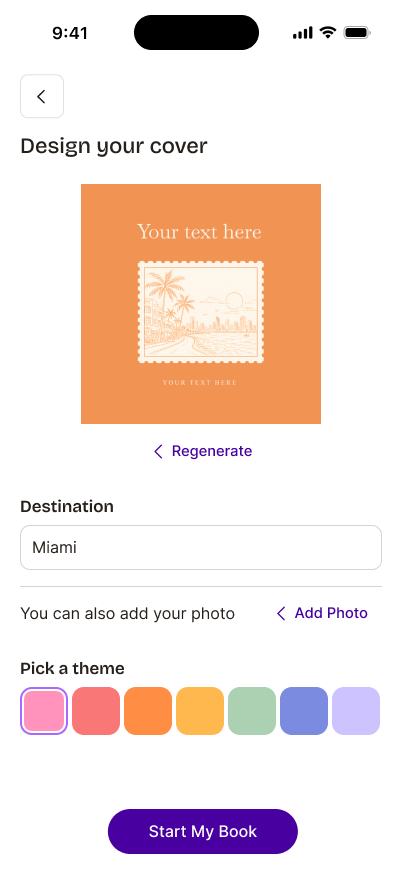
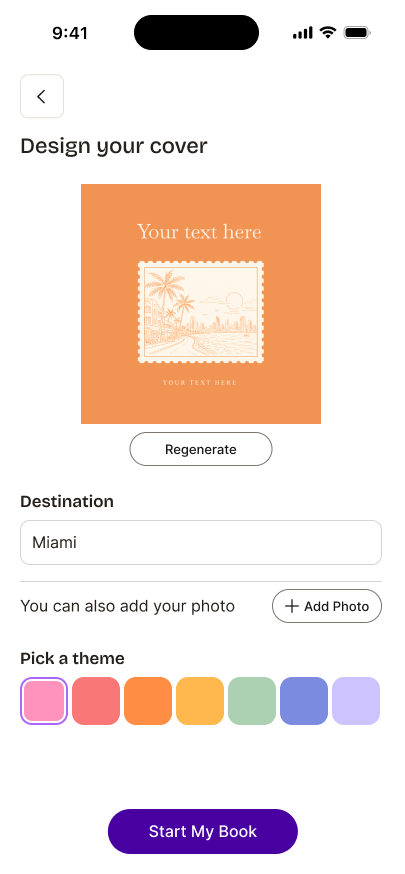
Before/after: use the bold-tertiary (Callout/Strong) screens as 'after'

diff --git a/buttons/index.html b/buttons/index.html
@@ -544,9 +544,9 @@ ul.pc li.con::before{content:"✕";color:var(--pink)}
       <h3>The same screens, with the new hierarchy.</h3>
       <div class="screens-row">
         <figure><img src="assets/orig-book-ready.png" alt="Your book is ready, before"><figcaption><strong>Before</strong>Soft fill Edit My Book, filled Share</figcaption></figure>
-        <figure><img src="assets/new-book-ready.png" alt="Your book is ready, after"><figcaption><strong>After</strong>Edit My Book and Share in grey outline, Regenerate as text</figcaption></figure>
+        <figure><img src="assets/new-book-ready.png?v=2" alt="Your book is ready, after"><figcaption><strong>After</strong>Edit My Book and Share in grey outline, Regenerate as bold text</figcaption></figure>
         <figure><img src="assets/orig-selection.png" alt="Photo selection, before"><figcaption><strong>Before</strong>Orange Save &amp; Exit, soft fill Select All</figcaption></figure>
-        <figure><img src="assets/new-selection.png" alt="Photo selection, after"><figcaption><strong>After</strong>Save &amp; Exit and Select All as text, Share in grey outline</figcaption></figure>
+        <figure><img src="assets/new-selection.png?v=2" alt="Photo selection, after"><figcaption><strong>After</strong>Save &amp; Exit and Select All as bold text, Share in grey outline</figcaption></figure>
       </div>
     </div>
   </section>
@@ -558,9 +558,9 @@ ul.pc li.con::before{content:"✕";color:var(--pink)}
       <h3>The same screens, with the new hierarchy.</h3>
       <div class="screens-row">
         <figure><img src="assets/orig-cover.png" alt="Design your cover, before"><figcaption><strong>Before</strong>Regenerate and Add Photo as soft fills</figcaption></figure>
-        <figure><img src="assets/new-cover.png" alt="Design your cover, after"><figcaption><strong>After</strong>Regenerate and Add Photo as text</figcaption></figure>
+        <figure><img src="assets/new-cover.png?v=2" alt="Design your cover, after"><figcaption><strong>After</strong>Regenerate and Add Photo in grey outline</figcaption></figure>
         <figure><img src="assets/orig-confirmation.png" alt="Order confirmation, before"><figcaption><strong>Before</strong>Soft fill Create account</figcaption></figure>
-        <figure><img src="assets/new-confirmation.png" alt="Order confirmation, after"><figcaption><strong>After</strong>Create account in grey outline</figcaption></figure>
+        <figure><img src="assets/new-confirmation.png?v=2" alt="Order confirmation, after"><figcaption><strong>After</strong>Create account in grey outline</figcaption></figure>
       </div>
     </div>
   </section>
